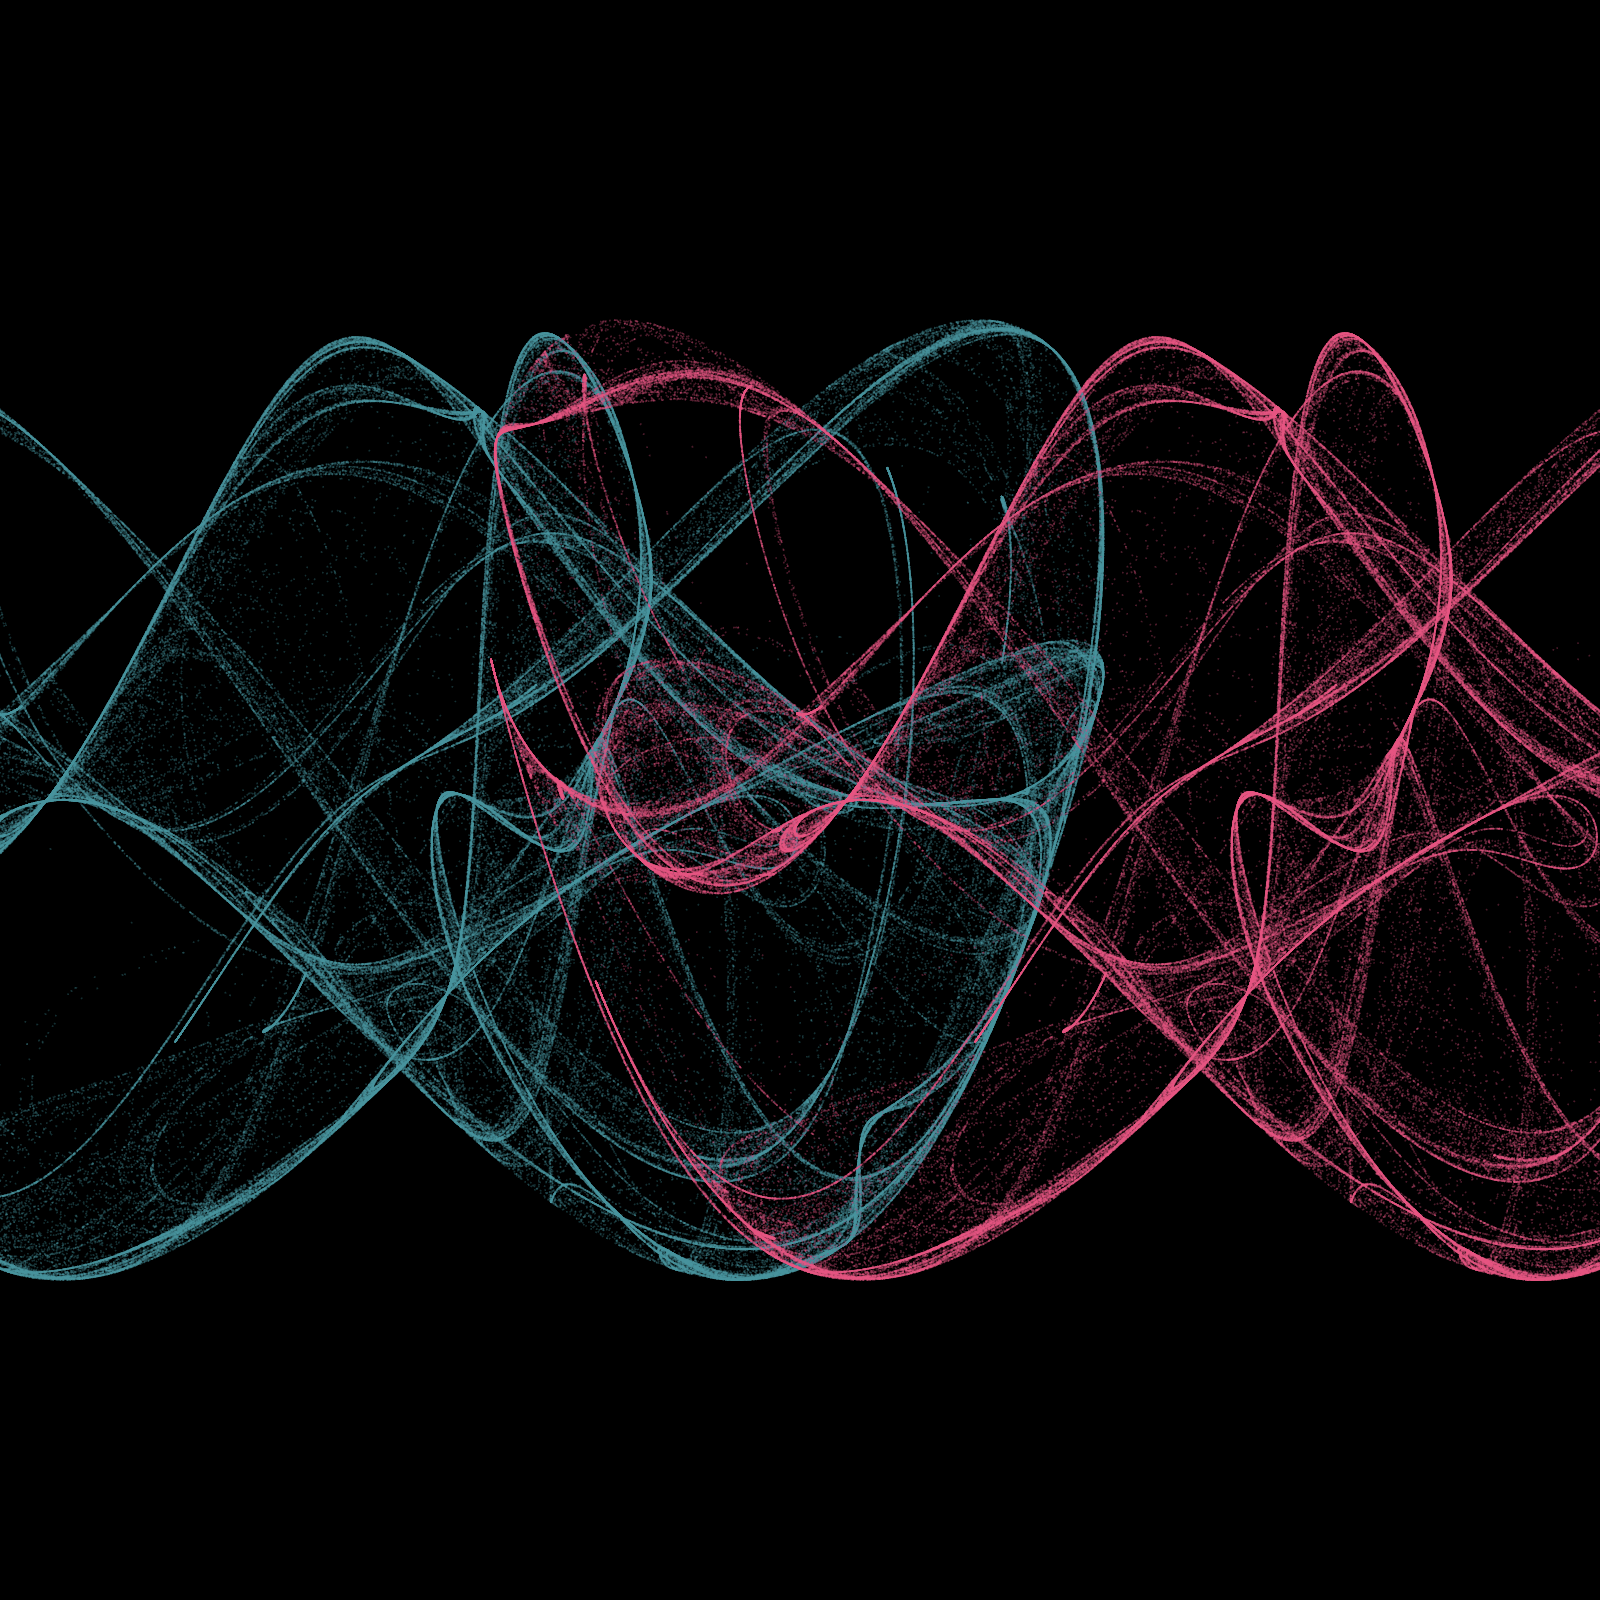
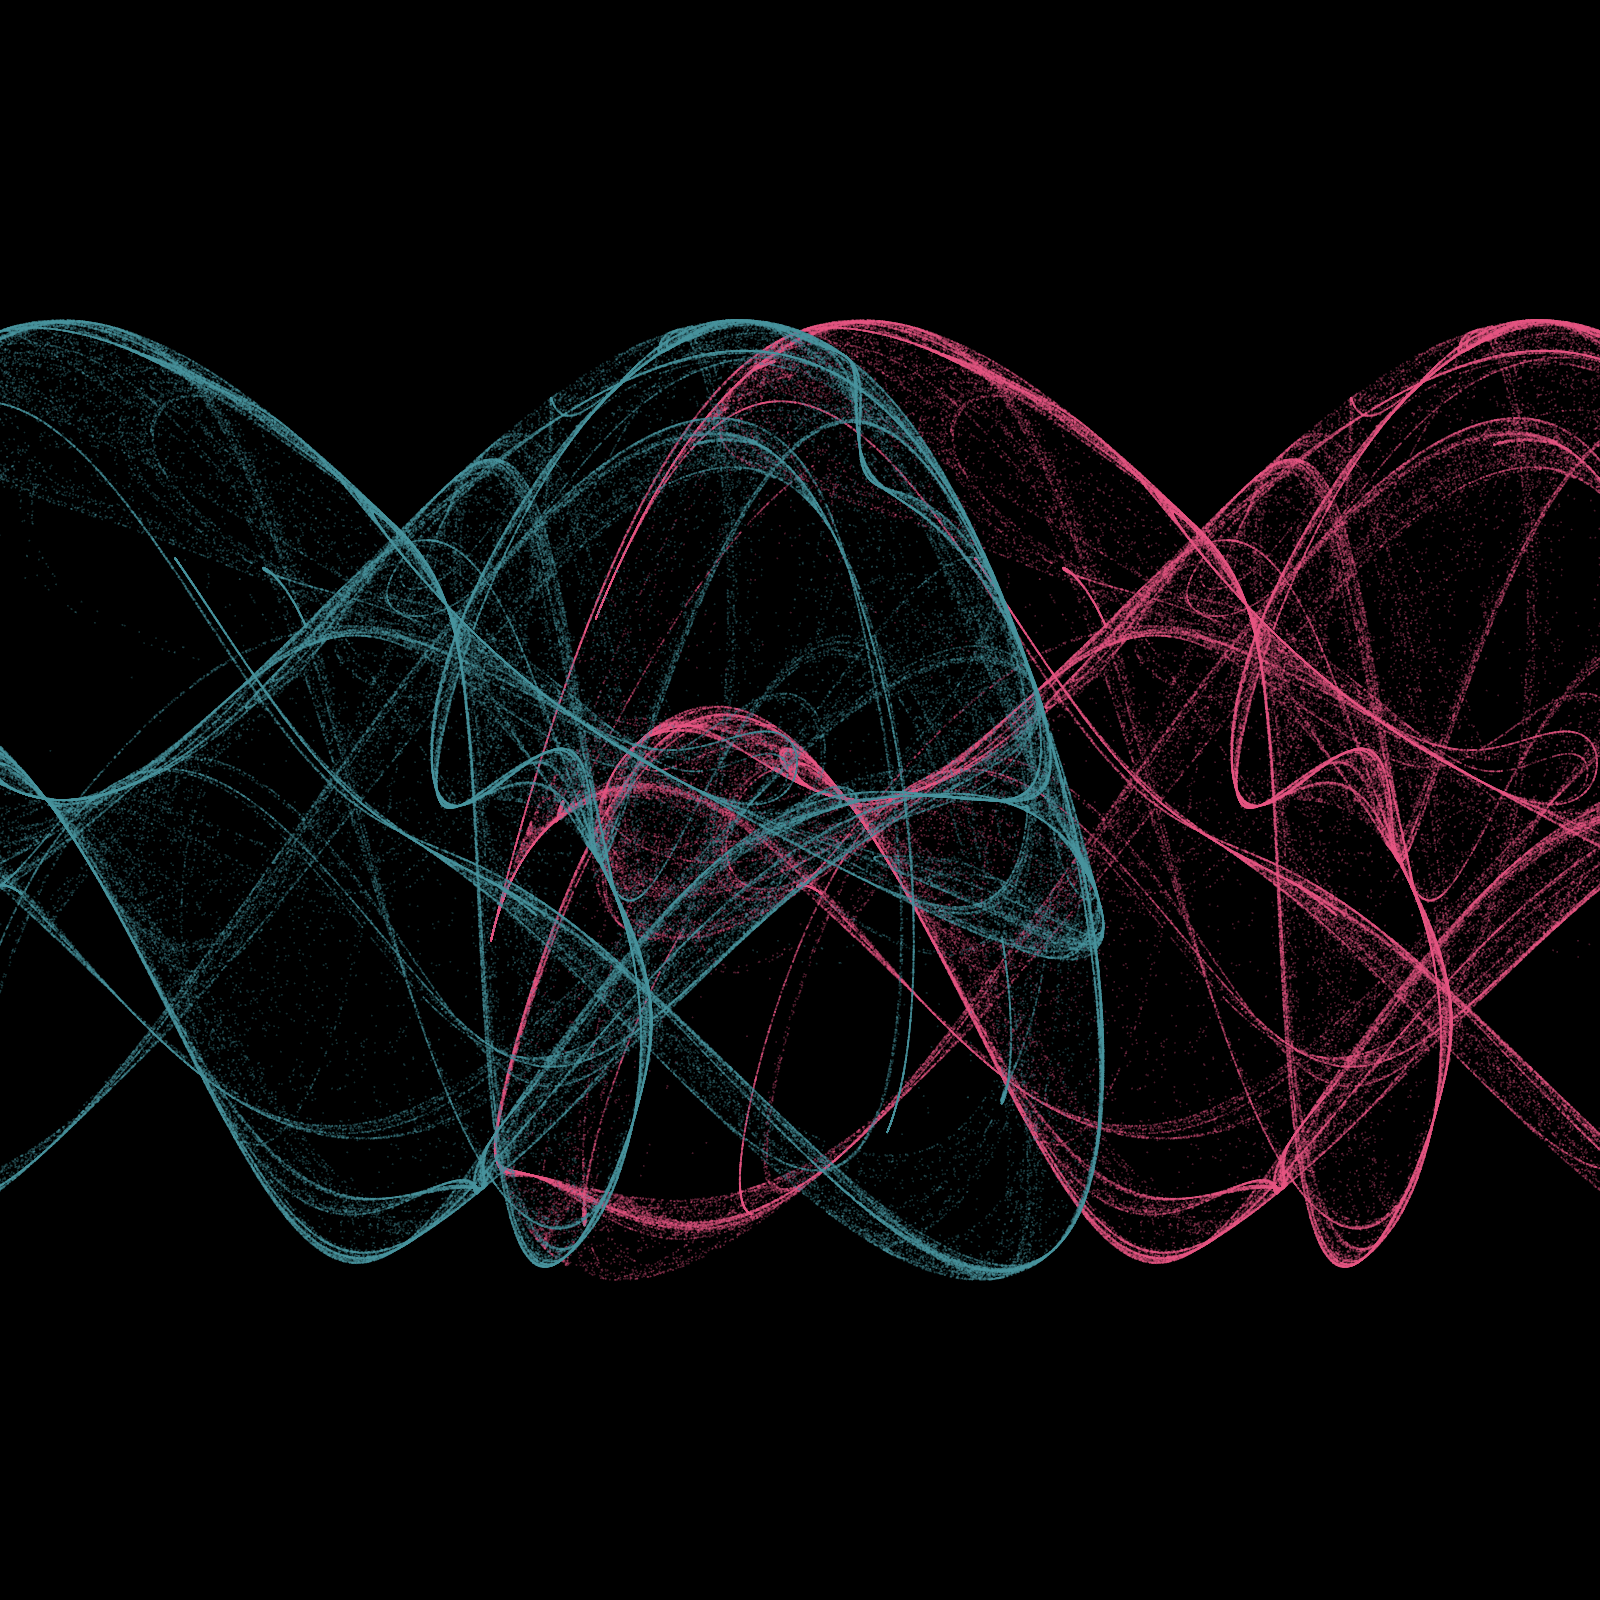
refactor

Changed region(s): [[0.0, 0.1875, 1.0, 0.8125]]

diff --git a/programs/20230508.rb b/programs/20230508.rb
@@ -1,14 +1,14 @@
-#Peter de Jong Attractor
+#Peter de Jong Attractor 漸化式
 def setup
   createCanvas(800, 800)
   background(0)
 
-  translate(200, 400)
-  stroke(30, 150, 160, 80)
+  translate(600, 400)
+  stroke(250, 70, 130, 80)
   attractor
 
-  translate(400, 0)
-  stroke(250, 70, 130, 80)
+  translate(-400, 0)
+  stroke(30, 150, 160, 80)
   attractor
 end
 
@@ -25,7 +25,7 @@ def attractor
     xx = Math.sin(a*y) - Math.cos(a*x)*c
     yy = Math.sin(b*x) - Math.cos(b*y)*d
 
-    point(-xx*scale, -yy*scale)
+    point(-xx*scale, yy*scale)
     x = xx
     y = yy
   end
